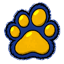
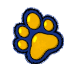
Web: kurzor packa natočený ako šípka myši, klik špičkou prsta

diff --git a/src/index.css b/src/index.css
@@ -423,12 +423,12 @@ html.is-app { --pack-dock-b: max(12px, calc(env(safe-area-inset-bottom, 0px) - 4
 
 /* 🐾 KURZOR = PACKA (Matej 11. 11. 2026: „na webe zmeň kurzor myši na packu, tú čo máme pri hodnotení,
    modrý lem a žlté vnútro"). Obrázok je tá istá packa ako hodnotenie (icons/sys/hodnotenie-packa.webp),
-   32 px + 64 px pre Retinu, ťuk v strede packy. Len pre myš (`pointer: fine`), telefón kurzor nemá.
+   32 px + 64 px pre Retinu, natočená ako šípka myši (-35°, Matej: „natoč ako bola aj tá pôvodná“), ťuk = špička horného prsta (13 4). Len pre myš (`pointer: fine`), telefón kurzor nemá.
    `!important`, lebo komponenty majú inline `cursor: pointer` a packa má byť všade rovnaká;
    polia na písanie si nechávajú textový kurzor. */
 @media (pointer: fine) {
   html, html *:not(input):not(textarea):not([contenteditable="true"]):not([contenteditable=""]) {
-    cursor: url('/cursor-packa.png') 16 16, auto !important;
-    cursor: -webkit-image-set(url('/cursor-packa.png') 1x, url('/cursor-packa@2x.png') 2x) 16 16, auto !important;
+    cursor: url('/cursor-packa.png') 13 4, auto !important;
+    cursor: -webkit-image-set(url('/cursor-packa.png') 1x, url('/cursor-packa@2x.png') 2x) 13 4, auto !important;
   }
 }
